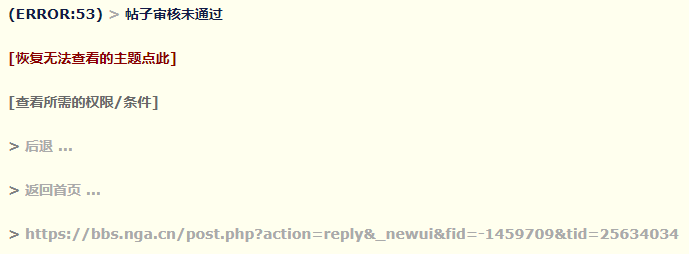
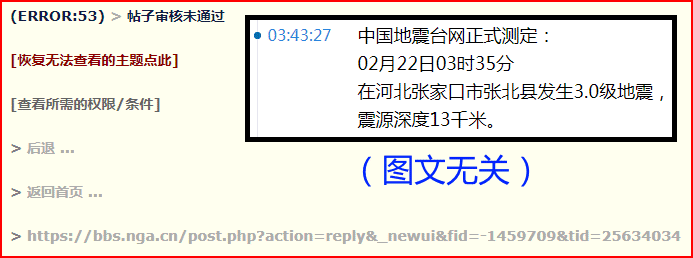
情报

diff --git a/at_douban/broadcast/20210222-001.html b/at_douban/broadcast/20210222-001.html
@@ -27,6 +27,7 @@
         <p>刚才在兲子脚下首善之区「黄脖子绿帽二代论坛」发了个主题《欢庆泼酒节》企图惹是生非，刚想补充素材回复的时候发现「帖子审核未通过」，先在这里备份吧。</p>
         <figure>
             <img src="image/20210222-001_001.png" />
+            <img src="image/20210222-001_002.png" />
         </figure>
         <article class="bulletin">
             <header class="myself"><abbr class="myself">范狂夫</abbr><time>2021-02-22 01:19</time></header>
@@ -35,14 +36,18 @@
             <p>于是，看见国际一流和谐宜居之都“高学历精英社交圈”正在首页今日头条位置醒目应景推荐一条重要情报《<a target="_blank" href="https://www.zhihu.com/question/438684200">酒桌上，领导把酒泼在你脸上，你如何应对？</a>》，因为帐号已经被以“<span class="dot">政治敏感</span>”理由“<span class="dot">亦当删去</span>”了，所以按照分类在NGA找个版面，发个主题，万事开头难嘛。</p>
             <p>我的回答，其实很多读者已经猜到了，那就是“<strong>端起面前酒杯泼到同桌别人脸上</strong>”，然后的发展有很多可供激化矛盾制造冲突增加剧情跌宕起伏程度的分支，想必打酱油做俯卧撑看热闹不嫌事大站着说话不腰疼的“乐子人”一定会对此喜闻乐见。</p>
             <p>先卖个关子，看看其它职场精英对这个回答有什么意见，如果在现实中没有类似经历，可以通过职业经验严密的推理接下来可能会发生什么情况，以繁荣百善の新时代中国特色社会主义文艺事业满足人民群众日益增长的精神文化需求。</p>
+            <hr class="inside" />
+            <p>帖子“审核未通过”不能回复，但是还可以编辑。先上传素材，把第一层包袱甩出来，讲个老笑话：</p>
+            <blockquote class="inside">
+                <p>“谁特么泼我？”</p>
+                <p>“泼水节嘛……”</p>
+                <p>“丫用开水泼我！”</p>
+            </blockquote>
+            <figure>
+                <img src="../../essay/modern/image/006-002.png" />
+            </figure>
+            <p>“你们不要想我来是叫地上太平；我来并不是叫地上太平，乃是叫地上动刀兵。”</p>
         </article>
-        <figure>
-            <img src="image/20210222-001_002.png" />
-        </figure>
-        <figure>
-            <img src="../../essay/modern/image/006-002.png" />
-        </figure>
-        <p>“你们不要想我来是叫地上太平；我来并不是叫地上太平，乃是叫地上动刀兵。”</p>
     </main>
     <div class="signature">
         <p><span class="sign-time">2021-02-22 01:45:44</span></p>
